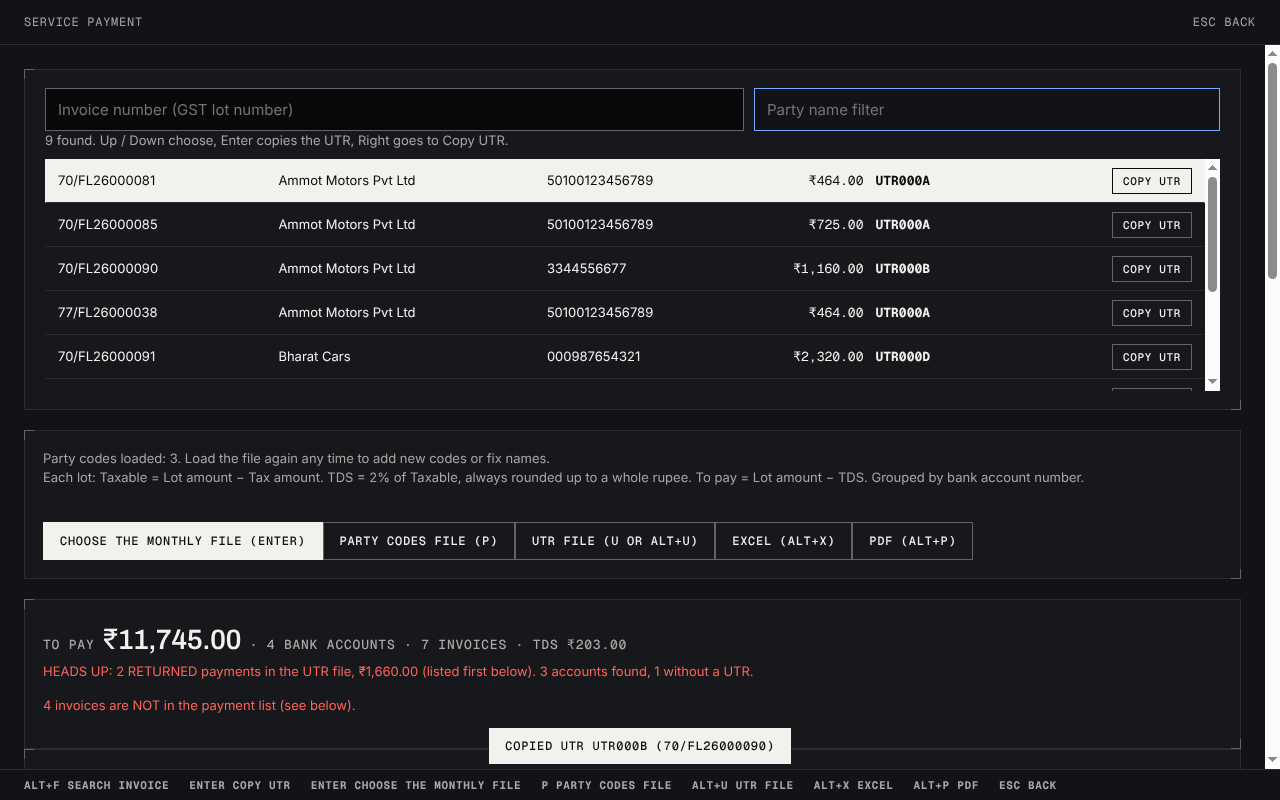
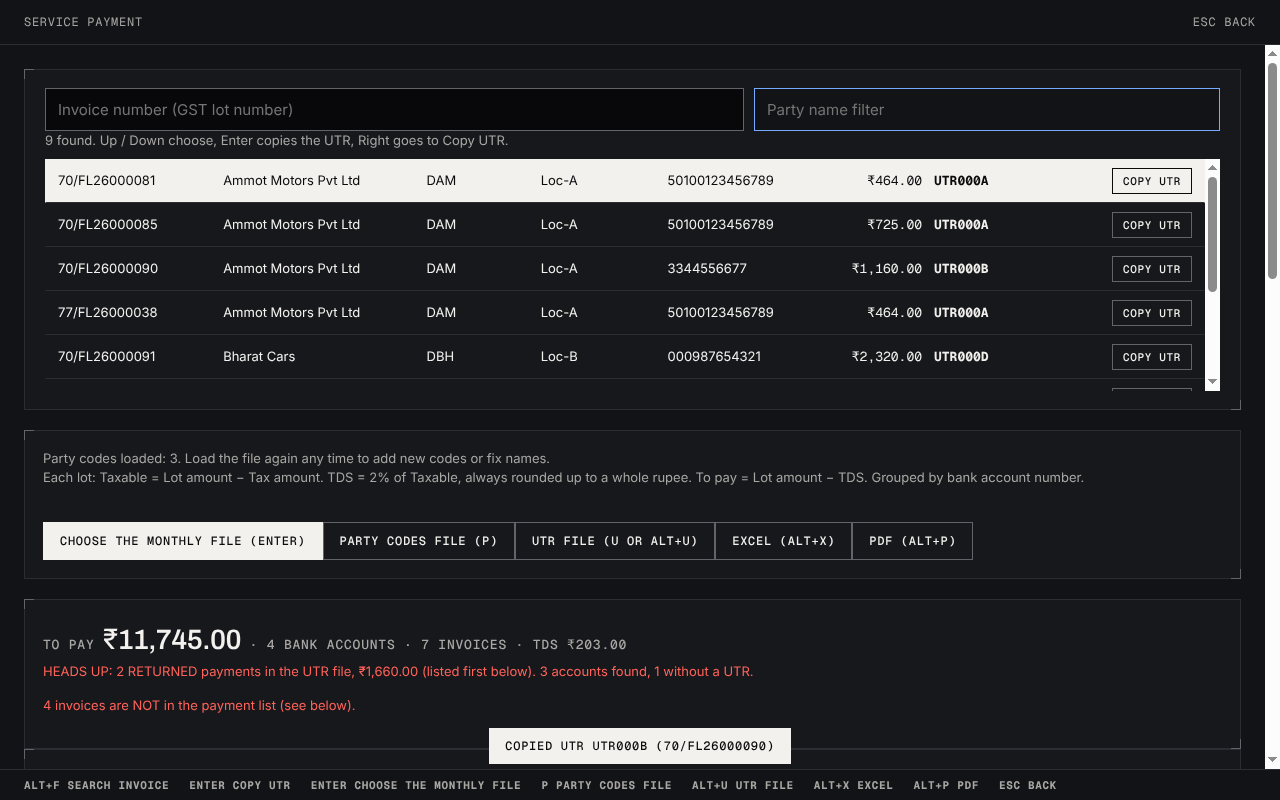
0.15.1: dealer code and location in the service payment search
Claude-Session: https://claude.ai/code/session_01Cau8S6biyQHEmk6XkPsXJC

diff --git a/src/core/fsc.js b/src/core/fsc.js
@@ -22,6 +22,8 @@ const COLUMNS = {
   ifsc: { label: 'Service Dlr IFSC Code', names: ['servicedlrifsccode', 'servicedlrifsc', 'dealerifsccode'], need: true },
   bank: { label: 'Service Dlr Bank Name', names: ['servicedlrbankname', 'dealerbankname'], need: false },
   partyName: { label: 'Party Name', names: ['partyname'], need: false },
+  dlrCd: { label: 'Service_DlrCd', names: ['servicedlrcd', 'servicedealercode', 'dlrcd', 'dealercode'], need: false },
+  loc: { label: 'Service_Loc', names: ['serviceloc', 'servicelocation', 'loc', 'location'], need: false },
   lotNum: { label: 'Lot_Num', names: ['lotnum', 'lotnumber', 'lotno'], need: false },
   lotDate: { label: 'Lot_Date', names: ['lotdate'], need: false },
   remarks: { label: 'Service DLR Remarks', names: ['servicedlrremarks', 'servicedealerremarks', 'dlrremarks', 'dealerremarks', 'remarks', 'remark'], need: false },
@@ -114,6 +116,8 @@ function compute(rows, parties = new Map(), { fileName = '' } = {}) {
     line.lotDate = at('lotDate') instanceof Date ? at('lotDate').toISOString().slice(0, 10) : cleanText(at('lotDate'));
     line.parentCode = codeOf(at('parent'));
     line.remark = cleanText(at('remarks'));
+    line.dlrCd = cleanText(at('dlrCd'));
+    line.loc = cleanText(at('loc'));
 
     const lot = parseMoney(at('lotAmt'));
     const tax = parseMoney(at('taxAmt'));
@@ -335,8 +339,8 @@ function buildReport(result, { generated = '' } = {}) {
   const detail = {
     heading: 'Every invoice, under its bank account',
     columns: [col('account', 'Account number'), col('party', 'Party'), col('gstLot', 'GST lot number (invoice)'), col('lotDate', 'Lot date'), col('lot', 'Lot amount', 'money2'),
-      col('tax', 'Tax amount', 'money2'), col('taxable', 'Taxable', 'money2'), col('tds', 'TDS', 'money2'), col('toPay', 'To pay', 'money2'), col('remark', 'Dealer remark'), col('row', 'Row in file', 'int')],
-    rows: result.accounts.flatMap((a) => a.lines.map((l) => ({ account: a.account, party: l.party || `(code ${l.parentCode})`, gstLot: l.gstLot, lotDate: l.lotDate, lot: rupees(l.lotPaise), tax: rupees(l.taxPaise), taxable: rupees(l.taxable), tds: l.tds, toPay: rupees(l.toPay), remark: l.remark, row: l.row }))),
+      col('tax', 'Tax amount', 'money2'), col('taxable', 'Taxable', 'money2'), col('tds', 'TDS', 'money2'), col('toPay', 'To pay', 'money2'), col('dlrCd', 'Dealer code'), col('loc', 'Location'), col('remark', 'Dealer remark'), col('row', 'Row in file', 'int')],
+    rows: result.accounts.flatMap((a) => a.lines.map((l) => ({ account: a.account, party: l.party || `(code ${l.parentCode})`, gstLot: l.gstLot, lotDate: l.lotDate, lot: rupees(l.lotPaise), tax: rupees(l.taxPaise), taxable: rupees(l.taxable), tds: l.tds, toPay: rupees(l.toPay), dlrCd: l.dlrCd, loc: l.loc, remark: l.remark, row: l.row }))),
     totals: { lot: rupees(t.lotPlaced), tax: rupees(t.lotPlaced - t.taxable), taxable: rupees(t.taxable), tds: rupees(t.tds), toPay: rupees(t.toPay) },
   };
   const check = {
@@ -385,9 +389,9 @@ function searchInvoices(result, { q = '', party = '', limit = 50 } = {}) {
   for (const a of result.accounts) {
     const u = a.utr;
     const paid = u ? u.rows.find((h) => h.kind === 'paid' && h.utr) : null;
-    for (const l of a.lines) all.push({ row: l.row, gstLot: l.gstLot, party: l.party || a.party || '', account: a.account, ifsc: a.ifsc, bank: a.bank, toPay: l.toPay / 100, utr: paid ? paid.utr : '', utrStatus: u ? u.status : '', hasUtrFile: Boolean(u) });
+    for (const l of a.lines) all.push({ row: l.row, gstLot: l.gstLot, dlrCd: l.dlrCd || '', loc: l.loc || '', party: l.party || a.party || '', account: a.account, ifsc: a.ifsc, bank: a.bank, toPay: l.toPay / 100, utr: paid ? paid.utr : '', utrStatus: u ? u.status : '', hasUtrFile: Boolean(u) });
   }
-  for (const l of result.unplaced) all.push({ row: l.row, gstLot: l.gstLot, party: l.party || '', account: l.account || '', ifsc: '', bank: '', toPay: l.hasLot ? (l.toPay || 0) / 100 : 0, utr: '', utrStatus: 'NOT PAID', hasUtrFile: Boolean(result.utr) });
+  for (const l of result.unplaced) all.push({ row: l.row, gstLot: l.gstLot, dlrCd: l.dlrCd || '', loc: l.loc || '', party: l.party || '', account: l.account || '', ifsc: '', bank: '', toPay: l.hasLot ? (l.toPay || 0) / 100 : 0, utr: '', utrStatus: 'NOT PAID', hasUtrFile: Boolean(result.utr) });
   const rank = (x) => { const n = simple(x.gstLot); if (!needle) return 3; if (n === needle) return 0; if (n.endsWith(needle)) return 1; if (n.startsWith(needle)) return 2; return n.includes(needle) ? 3 : -1; };
   return all.filter((x) => (!pneedle || x.party.toLowerCase().includes(pneedle)) && rank(x) >= 0)
     .sort((a, b) => rank(a) - rank(b) || (a.party ? 0 : 1) - (b.party ? 0 : 1) || a.party.localeCompare(b.party) || a.gstLot.localeCompare(b.gstLot, 'en', { numeric: true })).slice(0, limit);

diff --git a/src/ui/screens/fsc.js b/src/ui/screens/fsc.js
@@ -44,7 +44,7 @@
         const btn = h('button', { type: 'button', tabindex: '-1', class: 'copy-utr', 'aria-label': `Copy UTR of ${x.gstLot}`, on: { click: () => copyAt(n) } }, 'Copy UTR');
         copyBtns.push(btn);
         return h('div', { class: 'fsc-hit', role: 'option', 'data-i': String(n), on: { mousedown: (ev) => { ev.preventDefault(); selectRow(n); qBox.focus(); } } },
-          h('span', { class: 'hit-inv' }, x.gstLot || `(row ${x.row})`), h('span', { class: 'hit-party' }, x.party || '(party not found)'),
+          h('span', { class: 'hit-inv' }, x.gstLot || `(row ${x.row})`), h('span', { class: 'hit-party' }, x.party || '(party not found)'), h('span', { class: 'hit-dlr' }, x.dlrCd), h('span', { class: 'hit-loc' }, x.loc),
           h('span', { class: 'hit-acct' }, x.account || '(no account)'), h('span', { class: 'hit-amt' }, inr2(x.toPay)),
           h('span', { class: `hit-utr${x.utr ? '' : ' none'}` }, x.utr || (x.hasUtrFile ? (x.utrStatus || 'NO UTR') : 'UTR file not loaded')), btn);
       }));

diff --git a/src/ui/theme/theme.css b/src/ui/theme/theme.css
@@ -167,7 +167,7 @@ tr[tabindex]:focus .minus, tr[tabindex]:hover .minus { color: var(--ink); }
 .fsc-search { padding: 18px 20px; }
 .fsc-fields { display: grid; grid-template-columns: 1.5fr 1fr; gap: 10px; }
 .fsc-hits { margin-top: 8px; max-height: 232px; overflow-y: auto; }
-.fsc-hit { display: grid; grid-template-columns: 1.3fr 1.6fr 1.1fr 0.8fr 1.4fr auto; gap: 12px; align-items: center; padding: 8px 12px; border: 1px solid transparent; border-bottom-color: var(--line); font-size: 13px; }
+.fsc-hit { display: grid; grid-template-columns: 1.2fr 1.5fr 0.8fr 0.9fr 1.1fr 0.8fr 1.3fr auto; gap: 12px; align-items: center; padding: 8px 12px; border: 1px solid transparent; border-bottom-color: var(--line); font-size: 13px; }
 .fsc-hit.selected { background: var(--fill); color: var(--ink); }
 .fsc-hit .hit-amt { text-align: right; font-family: 'Geist Mono', monospace; }
 .fsc-hit .hit-utr { font-family: 'Geist Mono', monospace; font-weight: 600; }

diff --git a/CHANGES.md b/CHANGES.md
@@ -1,5 +1,8 @@
 # Cash Desk changes
 
+## 0.15.1 — Dealer code and location in the search
+- The invoice search lines now show the dealer code (Service_DlrCd) and the location (Service_Loc) from the monthly file. The invoice detail table, Excel and PDF carry both columns too.
+
 ## 0.15.0 — Service payment: invoice search that copies the UTR
 - **Search at the top of the Service payment screen.** After the monthly file and the UTR file are loaded the cursor goes to the Invoice number box. Type any part of the GST lot number (slashes and spaces are ignored); the matching invoices are listed with party, account number, amount to pay and UTR.
 - **Up / Down** choose a line. **Enter copies that invoice's UTR** to the clipboard and keeps the cursor in the box with the text selected, so the next invoice number replaces it. The toast shows what was copied.
